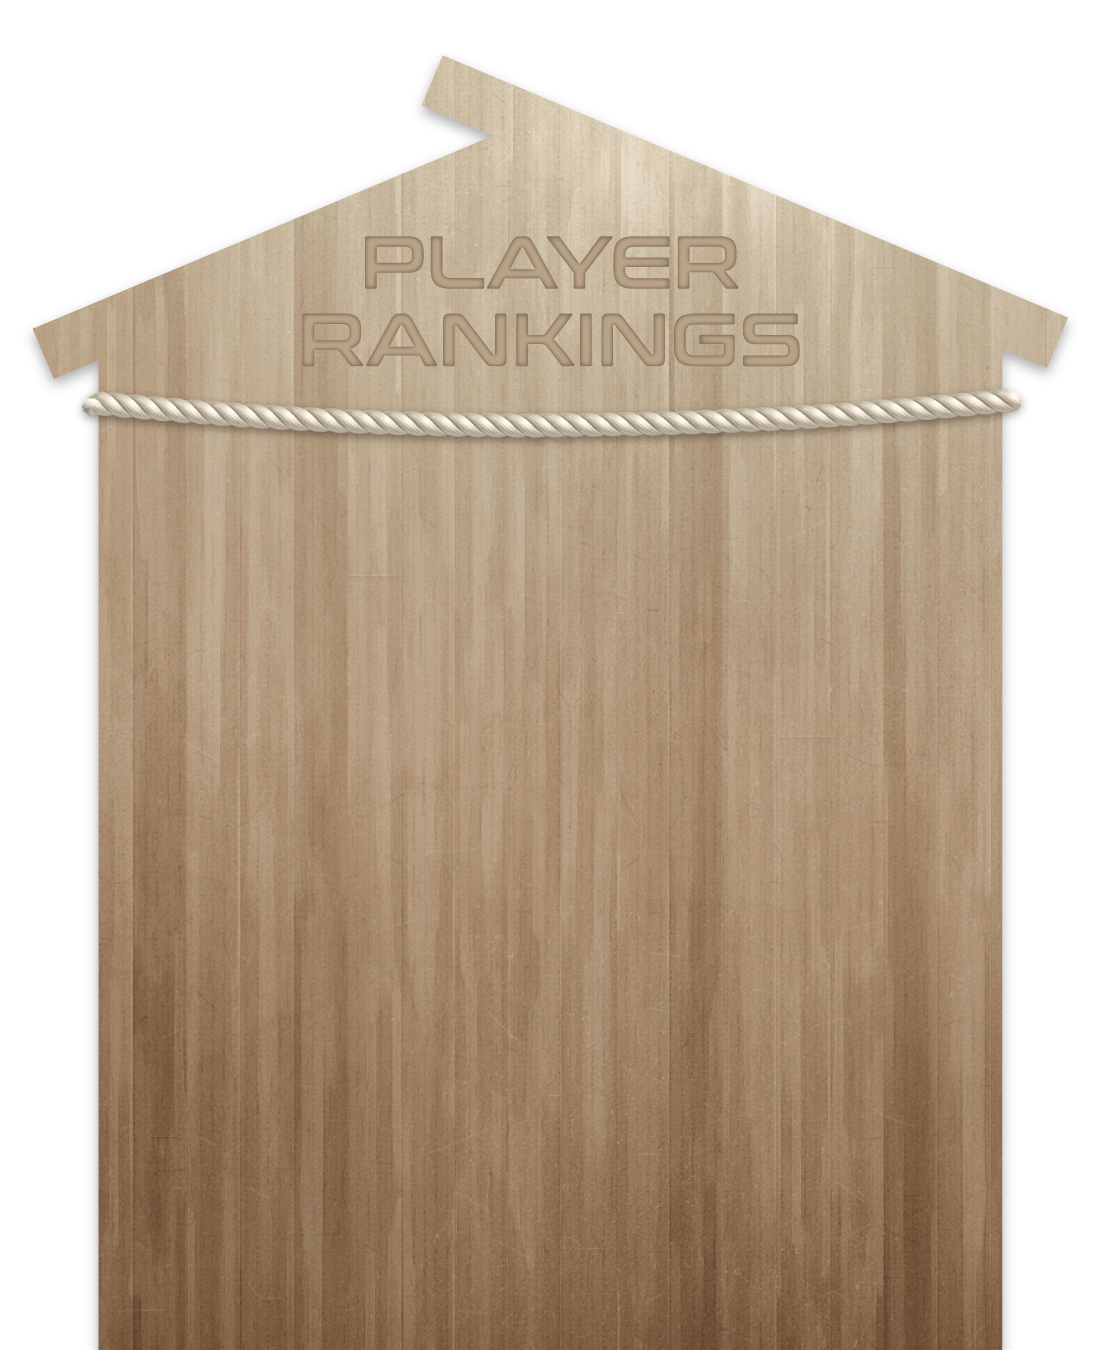
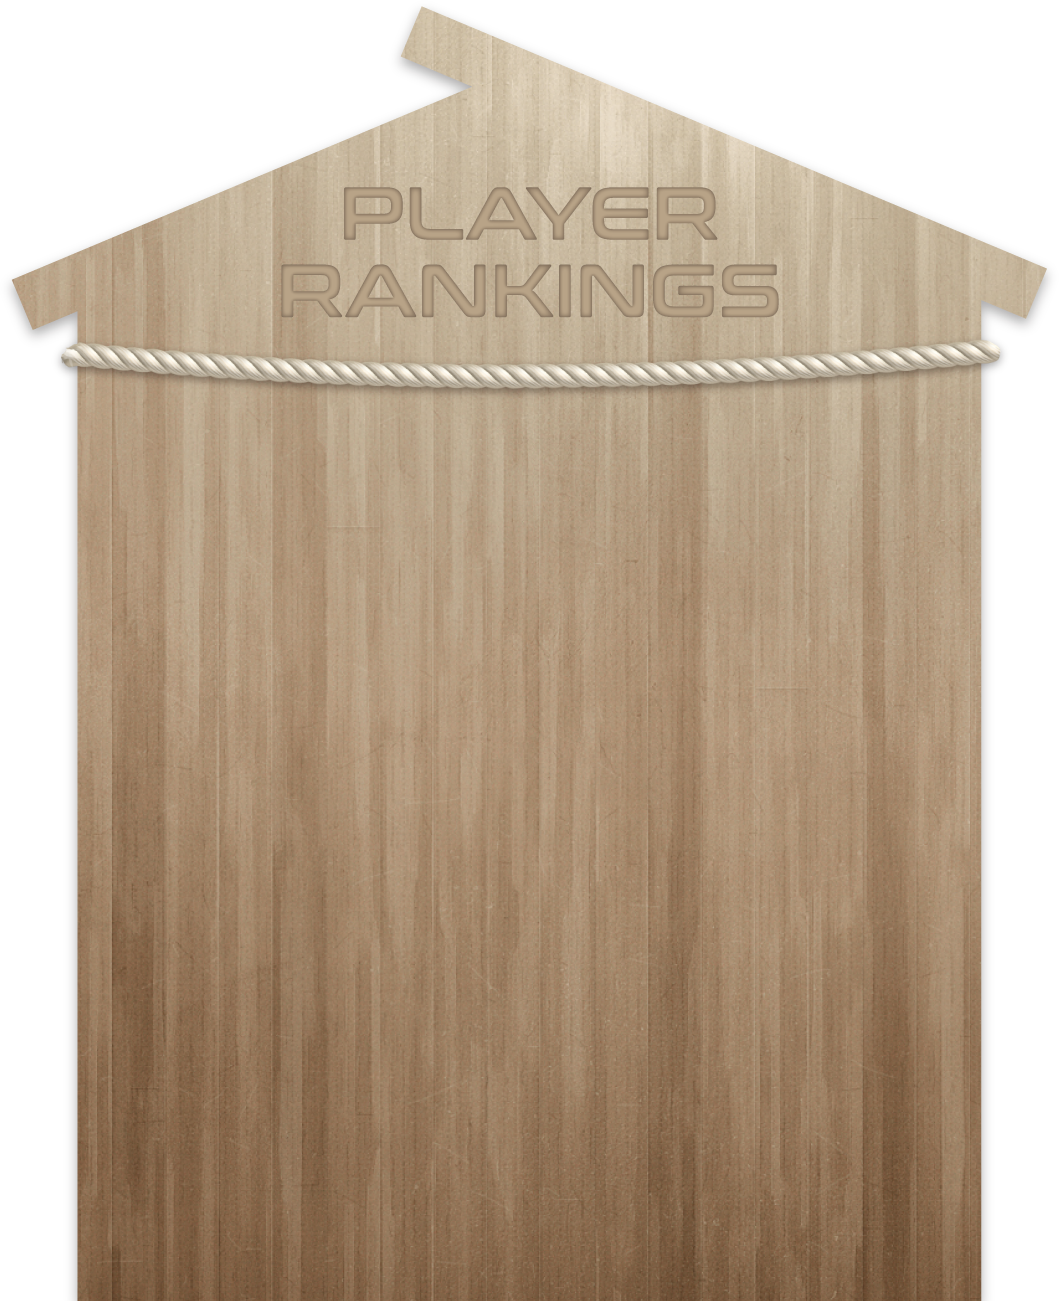
banzuke background image

diff --git a/templates/index.html b/templates/index.html
@@ -52,41 +52,48 @@
     {% endmatch %}
 
     <section id="leaderboard">
-        <table class="leaderboard">
-            <thead>
-                <tr>
-                    <th rowspan="2">Rank</th>
-                    <th rowspan="2">Player</th>
-                    <th colspan="3" class="border-left">Basho Ranks</th>
-                    <th colspan="4" class="border-left">Wins</th>
-                </tr>
-                <tr>
-                    <th class="border-left">best</th>
-                    <th>worst</th>
-                    <th>avg</th>
-                    <th class="border-left">most</th>
-                    <th>least</th>
-                    <th>avg</th>
-                    <th>total</th>
-                </tr>
-            </thead>
-            <tbody>
-            {% for leader in leaders %}
-                <tr>
-                    <td class="rank">{{leader.rank}}</td>
-                    <td>{{leader.player.render().unwrap()|safe}}</td>
-                    <td class="num border-left">{% call numeric_stat(leader.ranks.min) %}</td>
-                    <td class="num">{% call numeric_stat(leader.ranks.max) %}</td>
-                    <td class="num">{% call numeric_stat(leader.ranks.mean) %}</td>
-                    <td class="num border-left">{% call numeric_stat(leader.wins.max) %}</td>
-                    <td class="num">{% call numeric_stat(leader.wins.min) %}</td>
-                    <td class="num">{% call numeric_stat(leader.wins.mean) %}</td>
-                    <td class="num sort-key">{% call numeric_stat(leader.wins.total) %}</td>
-                </tr>
-            {% endfor %}
-                
-            </tbody>
-        </table>
+        <picture class="background">
+            <source src="/static/img2/2021-Player-Rankings.webp" type="image/webp">
+            <img src="/static/img2/2021-Player-Rankings.png" width="1059" height="1301">
+        </picture>
+        
+        <div class="scroll-container">
+            <table class="leaderboard">
+                <thead>
+                    <tr>
+                        <th rowspan="2">Rank</th>
+                        <th rowspan="2">Player</th>
+                        <th colspan="3" class="border-left">Basho Ranks</th>
+                        <th colspan="4" class="border-left">Wins</th>
+                    </tr>
+                    <tr>
+                        <th class="border-left">best</th>
+                        <th>worst</th>
+                        <th>avg</th>
+                        <th class="border-left">most</th>
+                        <th>least</th>
+                        <th>avg</th>
+                        <th>total</th>
+                    </tr>
+                </thead>
+                <tbody>
+                {% for leader in leaders %}
+                    <tr>
+                        <td class="rank">{{leader.rank}}</td>
+                        <td>{{leader.player.render().unwrap()|safe}}</td>
+                        <td class="num border-left">{% call numeric_stat(leader.ranks.min) %}</td>
+                        <td class="num">{% call numeric_stat(leader.ranks.max) %}</td>
+                        <td class="num">{% call numeric_stat(leader.ranks.mean) %}</td>
+                        <td class="num border-left">{% call numeric_stat(leader.wins.max) %}</td>
+                        <td class="num">{% call numeric_stat(leader.wins.min) %}</td>
+                        <td class="num">{% call numeric_stat(leader.wins.mean) %}</td>
+                        <td class="num sort-key">{% call numeric_stat(leader.wins.total) %}</td>
+                    </tr>
+                {% endfor %}
+                    
+                </tbody>
+            </table>
+        </div>
     </section>
 {% endblock %}
 

diff --git a/scss/index.scss b/scss/index.scss
@@ -1,6 +1,8 @@
 @use 'media';
 
 #p-index {
+    margin-bottom: 0;
+
     section {
         background: none;
         border: none;
@@ -51,7 +53,43 @@
 
 
     #leaderboard {
-        background: var(--color-light-blue-bg);
+        padding-top: 34.18%; // percentage of bg image *width*
+        padding-left: 10%;
+        padding-right: 10%;
+        padding-bottom: 0;
+        margin-bottom: 0;
+        // compute height based on aspect ratio of bg image
+        height: calc(min(100vw, var(--content-max-width)) * 1.229);
+
+        > .background > img {
+            position: absolute;
+            z-index: -1;
+            pointer-events: none;
+            top: 0;
+            left: 0;
+            width: 100%;
+            height: 100%;
+        }
+
+        &::before {
+            content: " ";
+            z-index: 1;
+            pointer-events: none;
+            position: absolute;
+            width: 100%;
+            left: 0;
+            top: 26.99%;
+            height: 38.43%;
+            background-image: url(/static/img2/2021-Player-Rankings-mask.png);
+            background-size: contain;
+            background-repeat: no-repeat;
+        }
+
+        .scroll-container {
+            width: 100%;
+            height: 100%;
+            overflow-y: scroll;
+        }
 
         table {
             border-collapse: collapse;

diff --git a/scss/base.scss b/scss/base.scss
@@ -20,6 +20,7 @@
     --color-table-highlight-bg: #ffc;
     --color-table-highlight-outline: #ec0;
 
+    --content-max-width: 950px;
     --section-padding: 1rem;
     --header-height: 28px;
 
@@ -135,7 +136,7 @@ section {
 
 body > main {
     width: 100%;
-    max-width: 950px;
+    max-width: var(--content-max-width);
     flex-grow: 1;
     margin: var(--header-height) auto 15rem auto;
 }
